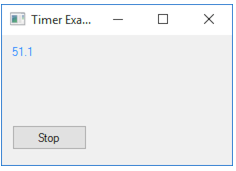
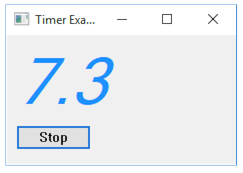
add doc

diff --git a/src/Switch.System.Drawing/src/Native/FontApiCocoa.mm b/src/Switch.System.Drawing/src/Native/FontApiCocoa.mm
@@ -11,7 +11,7 @@ using namespace System;
 using namespace System::Drawing;
 
 intptr Native::FontApi::CreateFont(const System::Drawing::FontFamily& family, float emSize, System::Drawing::FontStyle style, byte gdiCharSet, bool gdiVerticalFont) {
-  NSFont* hfont = [NSFont fontWithName:[NSString stringWithUTF8String:family.Name().c_str()] size:emSize];;
+  NSFont* hfont = [NSFont fontWithName:[NSString stringWithUTF8String:family.Name().c_str()] size:emSize / 3 * 4];;
   if ((style & System::Drawing::FontStyle::Bold) == System::Drawing::FontStyle::Bold) hfont = [[NSFontManager sharedFontManager] convertFont:hfont toHaveTrait:NSFontBoldTrait];
   if ((style & System::Drawing::FontStyle::Italic) == System::Drawing::FontStyle::Italic) hfont = [[NSFontManager sharedFontManager] convertFont:hfont toHaveTrait:NSFontItalicTrait];
   return (intptr)hfont;

diff --git a/examples/Switch.System.Windows.Forms/TimerForm/TimerForm.cpp b/examples/Switch.System.Windows.Forms/TimerForm/TimerForm.cpp
@@ -23,7 +23,7 @@ namespace TimerFormExample {
       this->label.Location = System::Drawing::Point(10, 10);
       this->label.Size = System::Drawing::Size(210, 70);
       //this->label.AutoSize = true;
-      this->label.Font = System::Drawing::Font("Arial", 48, System::Drawing::FontStyle::Italic);
+      this->label.Font = System::Drawing::Font(this->label.Font().Name, 48, System::Drawing::FontStyle::Italic);
       this->label.ForeColor = System::Drawing::Color::DodgerBlue;
 
       this->timer.Interval = 100;

diff --git a/tests/Switch.System.Drawing.ManualTests/Main.cpp b/tests/Switch.System.Drawing.ManualTests/Main.cpp
@@ -14,7 +14,7 @@ namespace ManualTests {
   public:
     // The main entry point for the application.
     static void Main() {
-      Font font("Microsoft Sans Serif", 11.0f, GraphicsUnit::Pixel);
+      Font font("Arial", 64.0f, GraphicsUnit::Pixel);
       Console::WriteLine("font = {0}", font);
       Console::WriteLine("Size = {0}", font.Size);
       Console::WriteLine("Unit = {0}", font.Unit);
